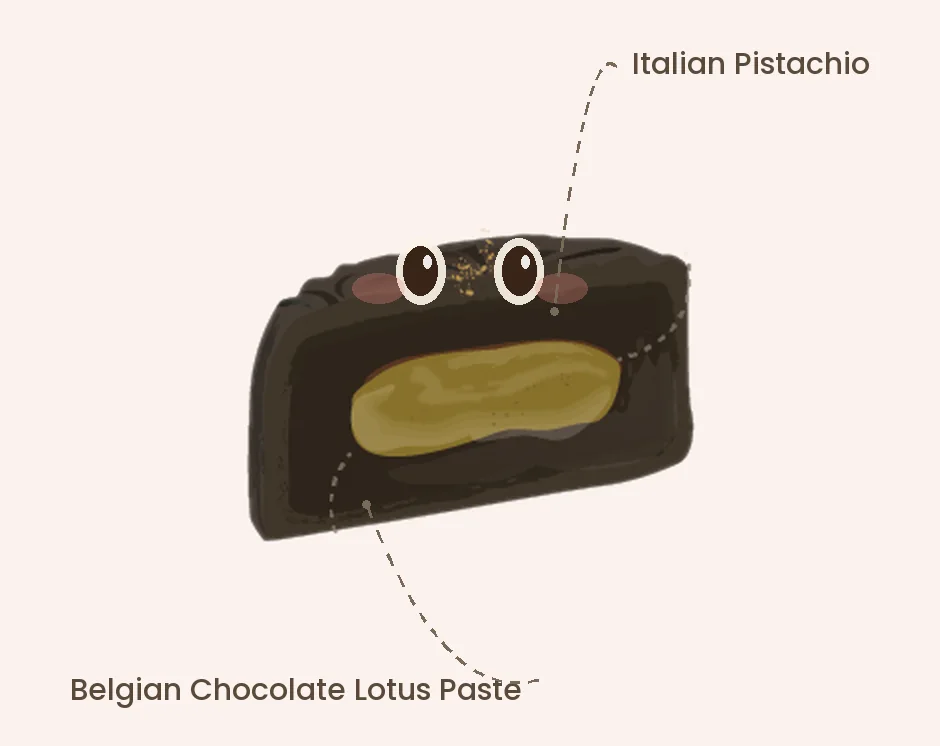
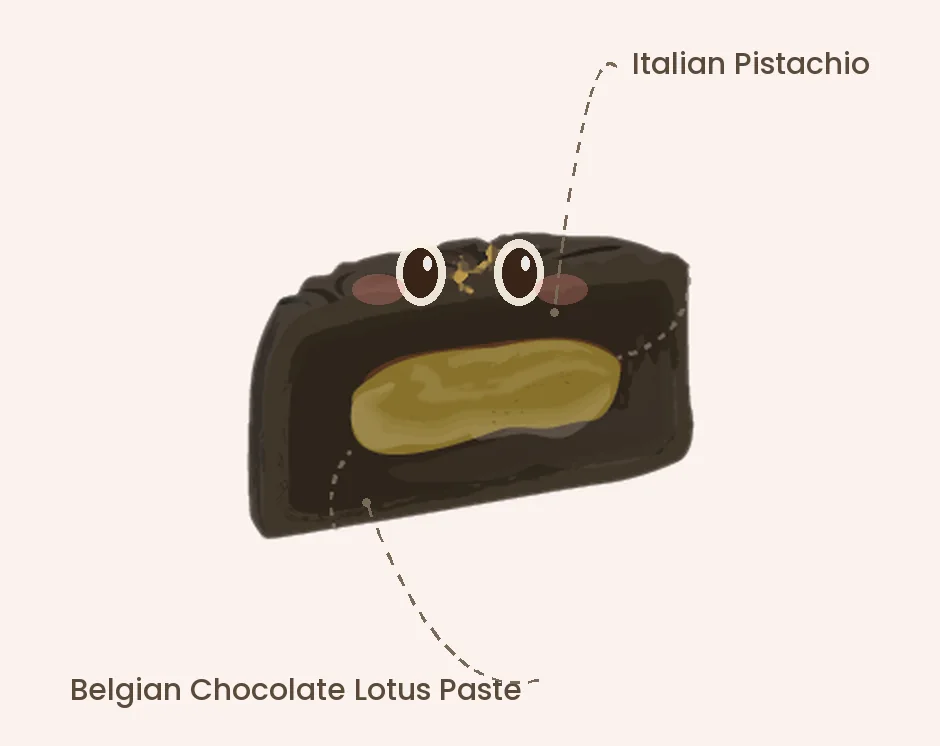
Characters v3: heal leftover dash strokes from source artwork

diff --git a/index.html b/index.html
@@ -1230,21 +1230,21 @@
 <script>
 (function(){
   var F = {
-    redbean:{name:"Red Bean, Mandarin Peel & Matcha Lotus", range:"Traditional Cantonese", img:"assets/trad-redbean-matcha.webp?v=2", illus:"assets/illus/redbean.webp?v=3", a:"#f-redbean", buy:"https://www.lalevain.com/product/traditional-cantonese-mooncake/", blurb:"Slow-cooked red bean with aged Xinhui chenpi on one side, matcha lotus on the other. Deep, fragrant and quietly complex.", cute:"You're an old soul with good taste, the kind who knows the classics got famous for a reason."},
-    lemon:{name:"White Lotus, Lemon Peel & Macadamia", range:"Traditional Cantonese", img:"assets/trad-lemon-macadamia.webp?v=2", illus:"assets/illus/lemon.webp?v=3", a:"#f-lemon", buy:"https://www.lalevain.com/product/traditional-cantonese-mooncake/", blurb:"Inspired by Italian lemon candy. Lemon peel lifts the sweetness so every bite finishes clean, with buttery macadamia for bite.", cute:"Sunshine in human form. You like your sweetness with a wink of zest."},
-    melon:{name:"White Lotus with Melon Seeds", range:"Traditional Cantonese", img:"assets/trad-melon-seeds.webp?v=2", illus:"assets/illus/melon.webp?v=3", a:"#f-melon", buy:"https://www.lalevain.com/product/traditional-cantonese-mooncake/", blurb:"The classic, left exactly as generations have loved it. Dense, fragrant lotus paste made the old way.", cute:"You don't fix what isn't broken, and honestly, we respect that."},
-    yolk:{name:"White Lotus with Single Yolk", range:"Traditional Cantonese", img:"assets/trad-single-yolk.webp?v=2", illus:"assets/illus/yolk.webp?v=3", a:"#f-yolk", buy:"https://www.lalevain.com/product/traditional-cantonese-mooncake/", blurb:"The one everyone knows, kept honest. White lotus around a single golden yolk.", cute:"A traditionalist with standards. The golden centre says it all."},
-    saltedyolk:{name:"White Lotus with Salted Egg Yolk", range:"Momoyama Cantonese", img:"assets/salted-yolk.webp?v=2", illus:"assets/illus/saltedyolk.webp?v=3", a:"#f-saltedyolk", buy:"https://www.lalevain.com/product/cantonese-mooncake-4pc/", blurb:"The classic flavour, presented in our soft, lower-sugar Momoyama skin. Tradition in modern dress.", cute:"Classic heart, modern wardrobe. You like tradition dressed up a little."},
-    matchayuzu:{name:"Uji Matcha & Valrhona Yuzu Chocolate", range:"Momoyama Cantonese", img:"assets/matcha-yuzu.webp?v=2", illus:"assets/illus/matchayuzu.webp?v=3", a:"#f-matchayuzu", buy:"https://www.lalevain.com/product/cantonese-mooncake-4pc/", blurb:"Bright yuzu cutting through earthy Uji matcha. Refreshing, multi-dimensional and very Japanese in spirit.", cute:"Calm on the outside, plot twist on the inside. Zen with a citrus streak."},
-    pistachio:{name:"Chocolate Lotus with Pistachio Crunch", range:"Momoyama Cantonese · New", img:"assets/choc-pistachio.webp?v=2", illus:"assets/illus/pistachio.webp?v=3", a:"#f-pistachio", buy:"https://www.lalevain.com/product/cantonese-mooncake-4pc/", blurb:"Inspired by the viral pistachio kunafa, rebuilt with Belgian chocolate lotus and real pistachio crunch.", cute:"You saw the pistachio trend and said yes please, but make it chic."},
-    berryrose:{name:"Mixed Berry Lotus with Raspberry Rose", range:"Momoyama Cantonese · New", img:"assets/berry-rose.webp?v=2", illus:"assets/illus/berryrose.webp?v=3", a:"#f-berryrose", buy:"https://www.lalevain.com/product/cantonese-mooncake-4pc/", blurb:"Rose and freeze-dried raspberry over a mixed berry lotus. Floral, tart and this year's boldest newcomer.", cute:"Romantic, a little dramatic, always the most interesting person at the table."},
-    mango:{name:"Mango Pomelo with Grapefruit", range:"Mini Momoyama", img:"assets/mango-pomelo.webp?v=2", illus:"assets/illus/mango.webp?v=3", a:"#f-mango", buy:"https://www.lalevain.com/product/mini-momoyama-cantonese-mooncake-new/", blurb:"Singapore's favourite dessert as a mooncake: Aiwen mango, candied pomelo and a grapefruit edge.", cute:"Sweet, sunny and just tart enough to keep everyone guessing."},
-    peach:{name:"Peach Jasmine Oolong", range:"Mini Momoyama", img:"assets/peach-oolong.webp?v=2", illus:"assets/illus/peach.webp?v=3", a:"#f-peach", buy:"https://www.lalevain.com/product/mini-momoyama-cantonese-mooncake-new/", blurb:"Two tea lotus pastes with candied white peach. Years of tea experiments, finally in balance.", cute:"Soft-spoken but deep. You're the cup of tea everyone needs."},
-    coffee:{name:"Illy Coffee Lava", range:"Mini Momoyama", img:"assets/coffee-lava.webp?v=2", illus:"assets/illus/coffee.webp?v=3", a:"#f-coffee", buy:"https://www.lalevain.com/product/mini-momoyama-cantonese-mooncake-new/", blurb:"100% Arabica Illy coffee with a molten lava centre. For the ones who order a long black.", cute:"You run on coffee and melt for a molten centre. We see you."},
-    fleur:{name:"Fleur de Cao", range:"Mini Momoyama", img:"assets/fleur-de-cao.webp?v=2", illus:"assets/illus/fleur.webp?v=3", a:"#f-fleur", buy:"https://www.lalevain.com/product/mini-momoyama-cantonese-mooncake-new/", blurb:"Cookies and cream, turned into a mooncake with our signature Fleur de Cao cookie and Belgian chocolate.", cute:"Grew up on cookies and cream, glowed up to this."},
-    teosalted:{name:"Teochew Salted Egg", range:"Teochew · flaky crust", img:"assets/teochew-saltedegg.webp?v=2", illus:"assets/illus/teosalted.webp?v=3", a:"#f-teosalted", buy:"https://www.lalevain.com/product/baked-teochew-mooncake/", blurb:"Hand-folded flaky crust in French butter around a rich salted egg heart. Baked, never fried.", cute:"Flaky in pastry only. You show up buttery, golden and reliable."},
-    teosesame:{name:"Black Sesame Hokkaido Milk, Mochi", range:"Teochew · flaky crust", img:"assets/teochew-blacksesame.webp?v=2", illus:"assets/illus/teosesame.webp?v=3", a:"#f-teosesame", buy:"https://www.lalevain.com/product/baked-teochew-mooncake/", blurb:"Hong Kong zee ma woo meets Hokkaido milk, with a chewy mochi centre inside flaky layers.", cute:"Quietly complex, pleasantly chewy, impossible not to like."},
-    teobobo:{name:"Teochew Bobochacha Mochi", range:"Teochew · flaky crust", img:"assets/teochew-bobochacha.webp?v=2", illus:"assets/illus/teobobo.webp?v=3", a:"#f-teobobo", buy:"https://www.lalevain.com/product/baked-teochew-mooncake/", blurb:"Our signature. Taiwanese yam, sea salt coconut custard and a coconut mochi heart. Bobochacha, reborn.", cute:"Local at heart, extra by nature. You'd order the bobochacha twice."}
+    redbean:{name:"Red Bean, Mandarin Peel & Matcha Lotus", range:"Traditional Cantonese", img:"assets/trad-redbean-matcha.webp?v=2", illus:"assets/illus/redbean.webp?v=4", a:"#f-redbean", buy:"https://www.lalevain.com/product/traditional-cantonese-mooncake/", blurb:"Slow-cooked red bean with aged Xinhui chenpi on one side, matcha lotus on the other. Deep, fragrant and quietly complex.", cute:"You're an old soul with good taste, the kind who knows the classics got famous for a reason."},
+    lemon:{name:"White Lotus, Lemon Peel & Macadamia", range:"Traditional Cantonese", img:"assets/trad-lemon-macadamia.webp?v=2", illus:"assets/illus/lemon.webp?v=4", a:"#f-lemon", buy:"https://www.lalevain.com/product/traditional-cantonese-mooncake/", blurb:"Inspired by Italian lemon candy. Lemon peel lifts the sweetness so every bite finishes clean, with buttery macadamia for bite.", cute:"Sunshine in human form. You like your sweetness with a wink of zest."},
+    melon:{name:"White Lotus with Melon Seeds", range:"Traditional Cantonese", img:"assets/trad-melon-seeds.webp?v=2", illus:"assets/illus/melon.webp?v=4", a:"#f-melon", buy:"https://www.lalevain.com/product/traditional-cantonese-mooncake/", blurb:"The classic, left exactly as generations have loved it. Dense, fragrant lotus paste made the old way.", cute:"You don't fix what isn't broken, and honestly, we respect that."},
+    yolk:{name:"White Lotus with Single Yolk", range:"Traditional Cantonese", img:"assets/trad-single-yolk.webp?v=2", illus:"assets/illus/yolk.webp?v=4", a:"#f-yolk", buy:"https://www.lalevain.com/product/traditional-cantonese-mooncake/", blurb:"The one everyone knows, kept honest. White lotus around a single golden yolk.", cute:"A traditionalist with standards. The golden centre says it all."},
+    saltedyolk:{name:"White Lotus with Salted Egg Yolk", range:"Momoyama Cantonese", img:"assets/salted-yolk.webp?v=2", illus:"assets/illus/saltedyolk.webp?v=4", a:"#f-saltedyolk", buy:"https://www.lalevain.com/product/cantonese-mooncake-4pc/", blurb:"The classic flavour, presented in our soft, lower-sugar Momoyama skin. Tradition in modern dress.", cute:"Classic heart, modern wardrobe. You like tradition dressed up a little."},
+    matchayuzu:{name:"Uji Matcha & Valrhona Yuzu Chocolate", range:"Momoyama Cantonese", img:"assets/matcha-yuzu.webp?v=2", illus:"assets/illus/matchayuzu.webp?v=4", a:"#f-matchayuzu", buy:"https://www.lalevain.com/product/cantonese-mooncake-4pc/", blurb:"Bright yuzu cutting through earthy Uji matcha. Refreshing, multi-dimensional and very Japanese in spirit.", cute:"Calm on the outside, plot twist on the inside. Zen with a citrus streak."},
+    pistachio:{name:"Chocolate Lotus with Pistachio Crunch", range:"Momoyama Cantonese · New", img:"assets/choc-pistachio.webp?v=2", illus:"assets/illus/pistachio.webp?v=4", a:"#f-pistachio", buy:"https://www.lalevain.com/product/cantonese-mooncake-4pc/", blurb:"Inspired by the viral pistachio kunafa, rebuilt with Belgian chocolate lotus and real pistachio crunch.", cute:"You saw the pistachio trend and said yes please, but make it chic."},
+    berryrose:{name:"Mixed Berry Lotus with Raspberry Rose", range:"Momoyama Cantonese · New", img:"assets/berry-rose.webp?v=2", illus:"assets/illus/berryrose.webp?v=4", a:"#f-berryrose", buy:"https://www.lalevain.com/product/cantonese-mooncake-4pc/", blurb:"Rose and freeze-dried raspberry over a mixed berry lotus. Floral, tart and this year's boldest newcomer.", cute:"Romantic, a little dramatic, always the most interesting person at the table."},
+    mango:{name:"Mango Pomelo with Grapefruit", range:"Mini Momoyama", img:"assets/mango-pomelo.webp?v=2", illus:"assets/illus/mango.webp?v=4", a:"#f-mango", buy:"https://www.lalevain.com/product/mini-momoyama-cantonese-mooncake-new/", blurb:"Singapore's favourite dessert as a mooncake: Aiwen mango, candied pomelo and a grapefruit edge.", cute:"Sweet, sunny and just tart enough to keep everyone guessing."},
+    peach:{name:"Peach Jasmine Oolong", range:"Mini Momoyama", img:"assets/peach-oolong.webp?v=2", illus:"assets/illus/peach.webp?v=4", a:"#f-peach", buy:"https://www.lalevain.com/product/mini-momoyama-cantonese-mooncake-new/", blurb:"Two tea lotus pastes with candied white peach. Years of tea experiments, finally in balance.", cute:"Soft-spoken but deep. You're the cup of tea everyone needs."},
+    coffee:{name:"Illy Coffee Lava", range:"Mini Momoyama", img:"assets/coffee-lava.webp?v=2", illus:"assets/illus/coffee.webp?v=4", a:"#f-coffee", buy:"https://www.lalevain.com/product/mini-momoyama-cantonese-mooncake-new/", blurb:"100% Arabica Illy coffee with a molten lava centre. For the ones who order a long black.", cute:"You run on coffee and melt for a molten centre. We see you."},
+    fleur:{name:"Fleur de Cao", range:"Mini Momoyama", img:"assets/fleur-de-cao.webp?v=2", illus:"assets/illus/fleur.webp?v=4", a:"#f-fleur", buy:"https://www.lalevain.com/product/mini-momoyama-cantonese-mooncake-new/", blurb:"Cookies and cream, turned into a mooncake with our signature Fleur de Cao cookie and Belgian chocolate.", cute:"Grew up on cookies and cream, glowed up to this."},
+    teosalted:{name:"Teochew Salted Egg", range:"Teochew · flaky crust", img:"assets/teochew-saltedegg.webp?v=2", illus:"assets/illus/teosalted.webp?v=4", a:"#f-teosalted", buy:"https://www.lalevain.com/product/baked-teochew-mooncake/", blurb:"Hand-folded flaky crust in French butter around a rich salted egg heart. Baked, never fried.", cute:"Flaky in pastry only. You show up buttery, golden and reliable."},
+    teosesame:{name:"Black Sesame Hokkaido Milk, Mochi", range:"Teochew · flaky crust", img:"assets/teochew-blacksesame.webp?v=2", illus:"assets/illus/teosesame.webp?v=4", a:"#f-teosesame", buy:"https://www.lalevain.com/product/baked-teochew-mooncake/", blurb:"Hong Kong zee ma woo meets Hokkaido milk, with a chewy mochi centre inside flaky layers.", cute:"Quietly complex, pleasantly chewy, impossible not to like."},
+    teobobo:{name:"Teochew Bobochacha Mochi", range:"Teochew · flaky crust", img:"assets/teochew-bobochacha.webp?v=2", illus:"assets/illus/teobobo.webp?v=4", a:"#f-teobobo", buy:"https://www.lalevain.com/product/baked-teochew-mooncake/", blurb:"Our signature. Taiwanese yam, sea salt coconut custard and a coconut mochi heart. Bobochacha, reborn.", cute:"Local at heart, extra by nature. You'd order the bobochacha twice."}
   };
   var QS = [
     {q:"How do you like your sweetness?", opts:[
